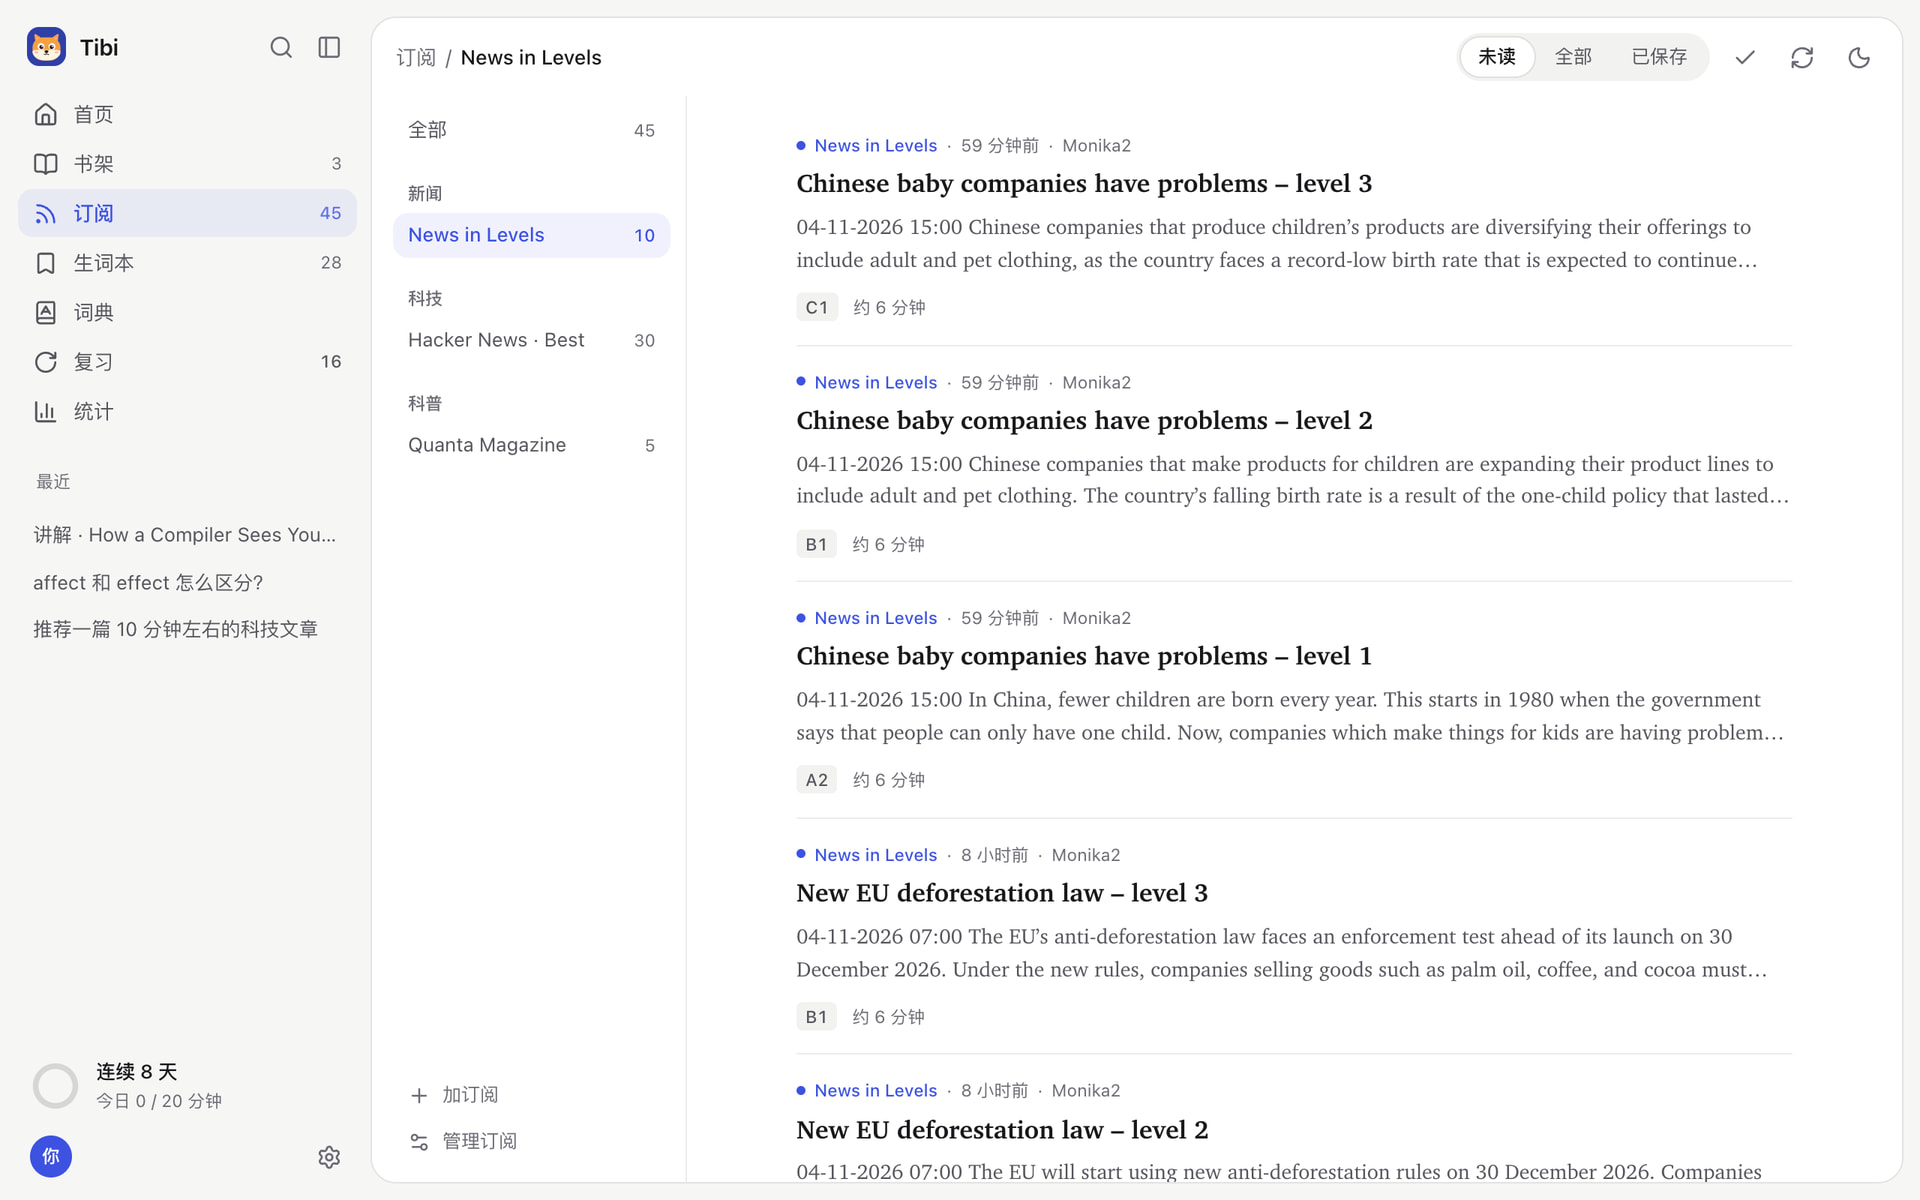
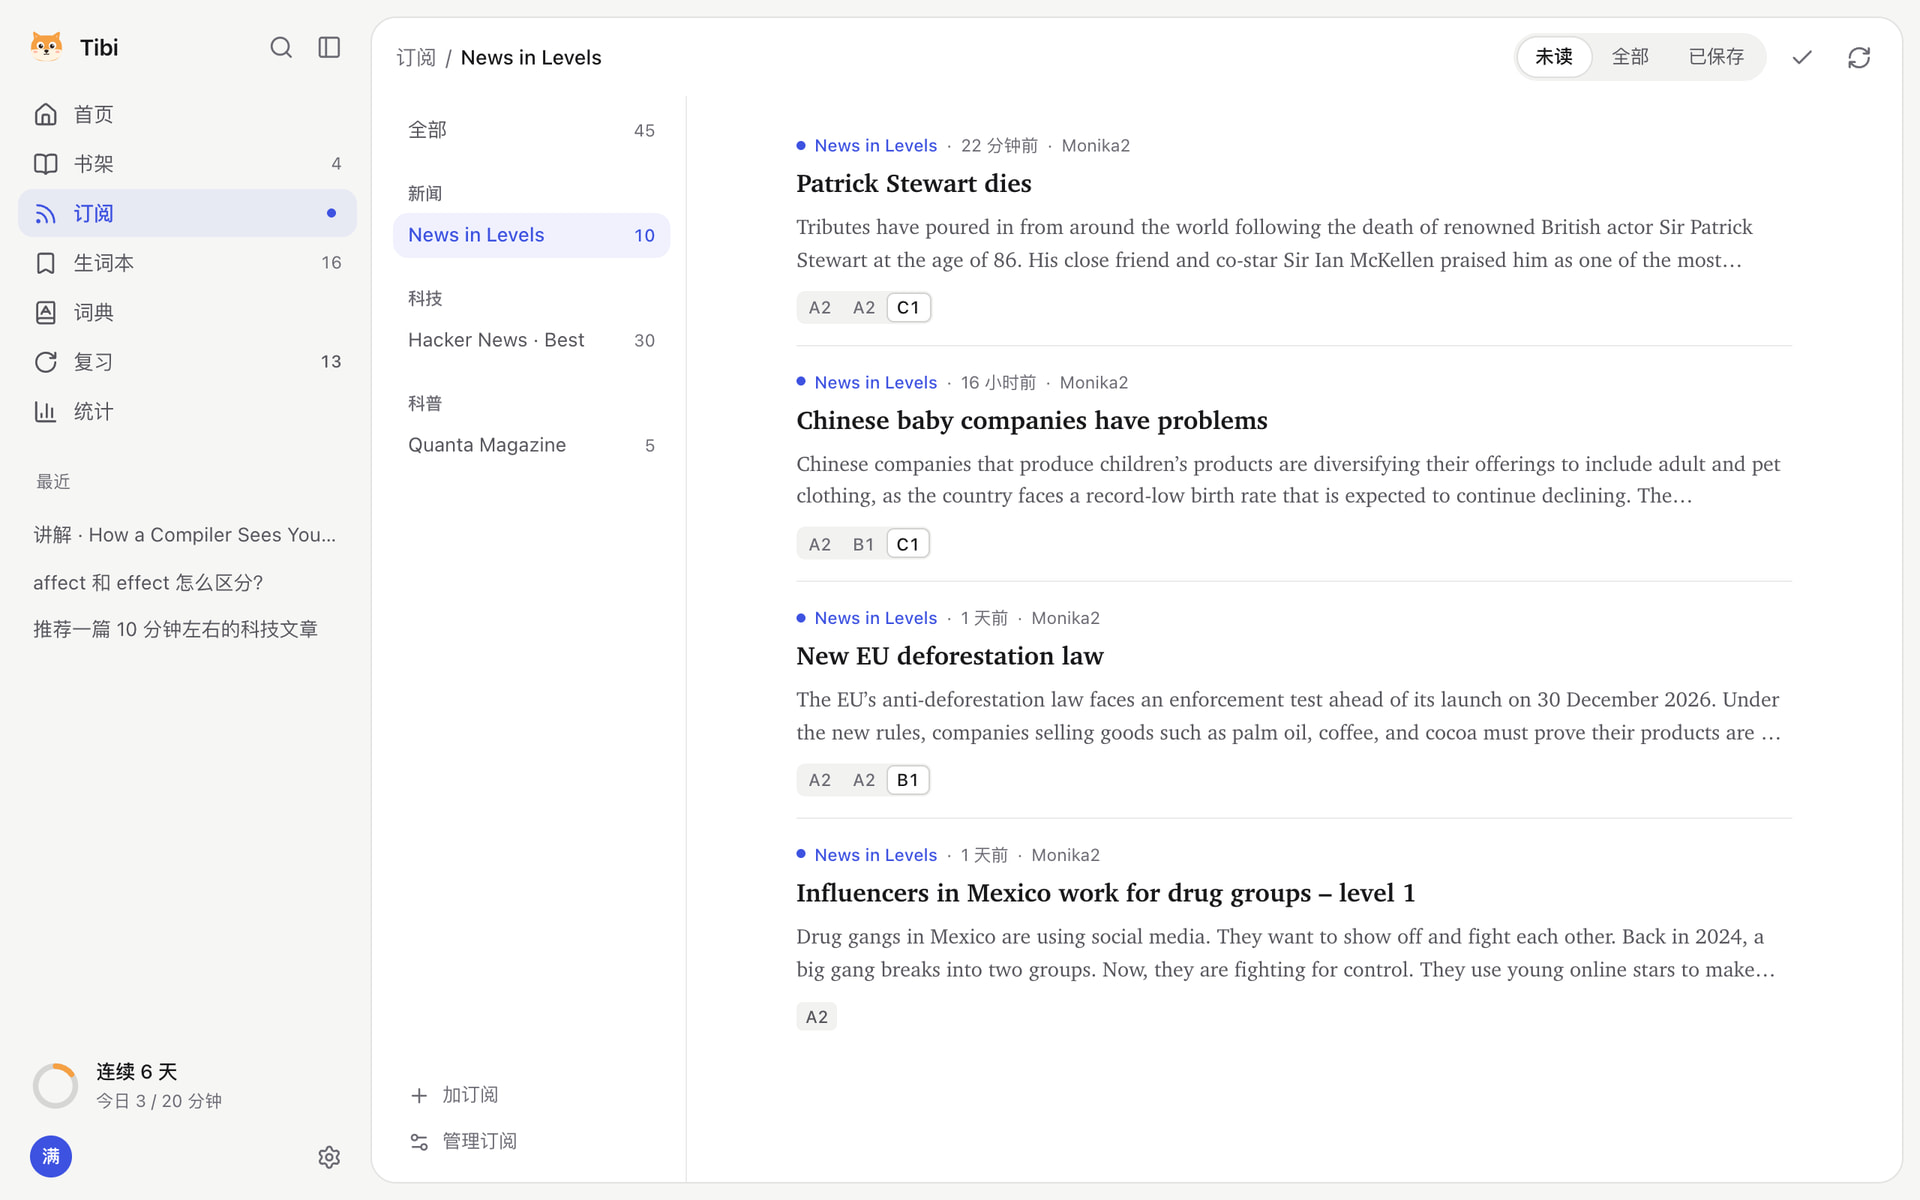
sites/tibi: 文案对齐产品，按当前界面重拍全部截图
- 「导入就有总结」改为「一键总结」（产品改为在总结面板里手动生成）；订阅图注不再写「标好时长」，改为「同一条新闻分三档难度」
- 重拍 6 张完整截图和 20 张功能图：顶栏没有深浅色按钮、复习页没有「复习 / 练习」切换、头像显示昵称的字
- capture-ui.cjs：首页一步先关掉启动时的「连接模型」询问（演示模型不是库里的连接），等提示消失再截
- design.md 同步定位说明和验证记录

diff --git a/sites/tibi/public/index.html b/sites/tibi/public/index.html
@@ -400,7 +400,7 @@
                 </figure>
                 <figure class="shot swiper-slide">
                   <a href="/img/screenshots/feeds.jpg"><img src="/img/screenshots/feeds.jpg" width="1920" height="1200" alt="提比订阅：News in Levels 同一条新闻分三档难度" loading="lazy" decoding="async"></a>
-                  <figcaption><strong>04 · 订阅</strong>新文章自动送来，标好难度和时长</figcaption>
+                  <figcaption><strong>04 · 订阅</strong>新文章自动送来，同一条新闻分三档难度</figcaption>
                 </figure>
                 <figure class="shot swiper-slide">
                   <a href="/img/screenshots/review.jpg"><img src="/img/screenshots/review.jpg" width="1920" height="1200" alt="提比复习面板：今天的复习进度、未来七天和这周忘过的词" loading="lazy" decoding="async"></a>
@@ -519,8 +519,8 @@
             <li class="card">
               <div class="card-media"><img src="/img/features/summary.sm.webp" srcset="/img/features/summary.sm.webp 1x, /img/features/summary.webp 2x" width="1200" height="750" alt="提比总结面板：文章总结、级别和值得学的短语" loading="lazy" decoding="async"></div>
               <div class="card-content">
-                <h3>导入就有总结</h3>
-                <p>自动写总结，挑出短语和长难句，给一段阅读建议。</p>
+                <h3>一键总结</h3>
+                <p>点一下就写好总结，挑出短语和长难句，给一段阅读建议。</p>
               </div>
             </li>
             <li class="card">

diff --git a/sites/tibi/design.md b/sites/tibi/design.md
@@ -5,8 +5,8 @@
 - 品牌固定为 **Tibi 提比**，定位为「AI first的英语学习全能助手」。首屏只留一个重点：定位缩成标题上方的小标签，主标题是「读喜欢的英文，／顺便把英语学会」，下面一句讲 AI 学伴：「AI 学伴 Tibi 懂你在读什么：讲透词句，用你的生词出题，帮你找文章」，两个分句之间换行，按钮下一行写「免费开源 · 无需账号 · 支持 macOS（iOS、Windows、Linux 即将支持）」。页面标题和 OG 标题用定位语，description 概括点词、问答、原句复习和本地优先。
 - 页面顺序为：hero 顶部狐狸装饰 → 主文案（H1、引导语、学习标签、下载入口、平台信息）→ `#shots` 六张完整应用截图轮播 → 无需账号／本地优先／MIT 开源价值卡片 → `#features` 功能（四个重点 → 「还有这些」六张小卡 → 四项纯文字能力）→ 隐私说明 → 下载与安装说明。首屏次要按钮为「看看界面」，指向 `#shots`。页头导航为界面、功能、AI 学伴（`#companion`，功能区里的第三个重点）、隐私、源码和下载。
 - **吉祥物仅作装饰配图，不设介绍文案/专区**。不设置角色故事、贴纸展区或 `#mascot`，导航无吉祥物入口；所有标题与文案围绕英语学习、AI 陪伴、隐私和下载。保留页头 `logo.svg`，产品 UI 截图仍是主要展示依据。
-- `#shots` 轮播依次为 home / reader / chat / feeds / review / stats，图注各一句：首页导入与提问、阅读器里点词看语境释义、右侧同时开着总结面板、对话里的辨析与练习卡、订阅自动送来并标难度、复习面板、统计与洞察。分享预览继续使用绝对地址 `https://tibi.ferecord.com/img/screenshots/home.jpg`。不增加虚构商店窗口、评价、用户数或媒体背书。
-- 功能区以「从读到懂，从懂到记住」为题，按学习顺序突出四个重点：01 读（导入各种材料与订阅，News in Levels 三档难度）、02 读懂（只标你标过的词，词卡先给这句里的意思）、03 AI 学伴（对话卡片、读到哪问到哪、写入前按权限先问且可撤销）、04 记住（FSRS 排期、原句出题、练习与造句批改）。每个重点为大图加一句说明和三条要点，桌面左右交替，900px 以下单列且文字在图上方；AI 学伴一段用淡靛蓝到杏色的底色区分。「还有这些」六张卡为：在阅读器里问 Tibi、导入就有总结、帮你找文章、听一句跟一句（朗读）、离线词典、看得见进步（统计）；最后一行纯文字列出浏览器剪藏、生词导出、接入其他 AI 工具（MCP）、多设备同步（文件夹或 WebDAV）。
+- `#shots` 轮播依次为 home / reader / chat / feeds / review / stats，图注各一句：首页导入与提问、阅读器里点词看语境释义、右侧同时开着总结面板、对话里的辨析与练习卡、订阅自动送来、同一条新闻分三档难度（订阅条目不一定有时长，不写"标好时长"）、复习面板、统计与洞察。分享预览继续使用绝对地址 `https://tibi.ferecord.com/img/screenshots/home.jpg`。不增加虚构商店窗口、评价、用户数或媒体背书。
+- 功能区以「从读到懂，从懂到记住」为题，按学习顺序突出四个重点：01 读（导入各种材料与订阅，News in Levels 三档难度）、02 读懂（只标你标过的词，词卡先给这句里的意思）、03 AI 学伴（对话卡片、读到哪问到哪、写入前按权限先问且可撤销）、04 记住（FSRS 排期、原句出题、练习与造句批改）。每个重点为大图加一句说明和三条要点，桌面左右交替，900px 以下单列且文字在图上方；AI 学伴一段用淡靛蓝到杏色的底色区分。「还有这些」六张卡为：在阅读器里问 Tibi、一键总结（2026-11-05 起导入不再自动生成，改为在总结面板里点一下）、帮你找文章、听一句跟一句（朗读）、离线词典、看得见进步（统计）；最后一行纯文字列出浏览器剪藏、生词导出、接入其他 AI 工具（MCP）、多设备同步（文件夹或 WebDAV）。
 - 能力边界依据只读产品仓库 `README.md`、`docs/guide/README.md` 第 4／6／7／8 节：阅读、词汇、AI 理解与复习是当前基础；「听」来自原文朗读、调速、单句循环和听写，「说」指听后自行跟读模仿，「写」指造句练习及连接模型后的批改。AI 学伴通过文字对话讲解用法、辅助表达与练习，不宣称实时语音对话、发音评分或独立作文评测系统。连接模型的条件与可能产生的服务商费用仅在下载区 details 集中说明一次。
 - 「无需账号、本地优先、MIT 开源」依据产品仓库 README、PRIVACY 和使用指南；隐私卡片保留 AI 内容发给所选模型服务商的说明。目前只提供 macOS 安装包（苹果芯片与英特尔芯片），iOS、Windows、Linux 一律写「即将支持」，下载区主按钮写「下载 macOS 版」，国内下载只列两个 dmg；平台信息紧邻 CTA；系统版本、安装方式、模型费用、联网与同步说明集中在下载区 details。
 - 下载入口指向 GitHub Releases；安装与模型费用说明使用原生 details。保持域名 `https://tibi.ferecord.com` 和源码链接 `tumars/tibi`。
@@ -79,6 +79,7 @@ TIBI_CAPTURE_DEPS=/path/to/node_modules node sites/tibi/scripts/capture-ui.cjs
 
 ## 验证记录
 
+- 文案对齐产品（2026-11-05）：「导入就有总结」改为「一键总结」（产品改为在总结面板里手动生成）；订阅图注不再写「标好时长」，改为「同一条新闻分三档难度」。本地静态预览核对文字，无脚本错误；同日按「重新采集」重拍全部 6 张完整截图和 20 张功能图：顶栏没有深浅色按钮、复习页没有「复习 / 练习」切换、头像显示昵称的字。`capture-ui.cjs` 的首页一步改为先关掉启动时的"连接模型"询问（演示模型不是库里的连接）、等提示消失再截。逐张看过首页、阅读（总结 + 词卡）、对话、订阅、复习卡、朗读图。未提交、推送或部署。
 - 阅读截图加总结面板（2026-11-05）：轮播第二张换成词卡和总结面板同时打开的阅读器（`reader-full`），图注与 alt 同步；其余图片不变。
 - 按当前功能重构与重拍（2026-11-04）：功能区改为四个重点、六张小卡和四项文字能力，导航加「AI 学伴」，轮播改为六张真实界面截图；删除原型来源的 ai／review／progress 图、import／mark 图与 words.jpg，换成本轮 26 张新图。Chrome 实测 320、360、390、560、768、900、1280、1440px 无横向溢出、无坏图、无脚本错误；Swiper 六个分页点、前后按钮到末张禁用正常，手机宽度下分页点单独一行。目视核对 1440px 与 390px 整页和全部裁切图。`capture-ui.cjs` 已在演示环境完整跑通一次并生成本轮发布图。本轮未提交、推送或部署。
 - H1 视觉层级与卡片标签清理（2026-11-01）：删除 04／05／06 卡片的原型标签及无引用样式，分类行只保留序号与名称。Chrome 实测 320、360、390、560、768、900、1280、1440px 无横向溢出；桌面引题／主标题为 30／64px，手机为 17／32px，320px 下两者放大至两倍仍无溢出。目视对比 1440px 修改前后及 320／390px 新版，确认陶土色主标题、粗细与大小对比明显，手机在两个短句之间换行。狐狸仍置顶，SVG 动画正常，无页面脚本错误；文案完整，三个分类标题正确，标签和死样式检索无残留，`git diff --check` 通过。本轮仅改本站 HTML 和设计说明。
